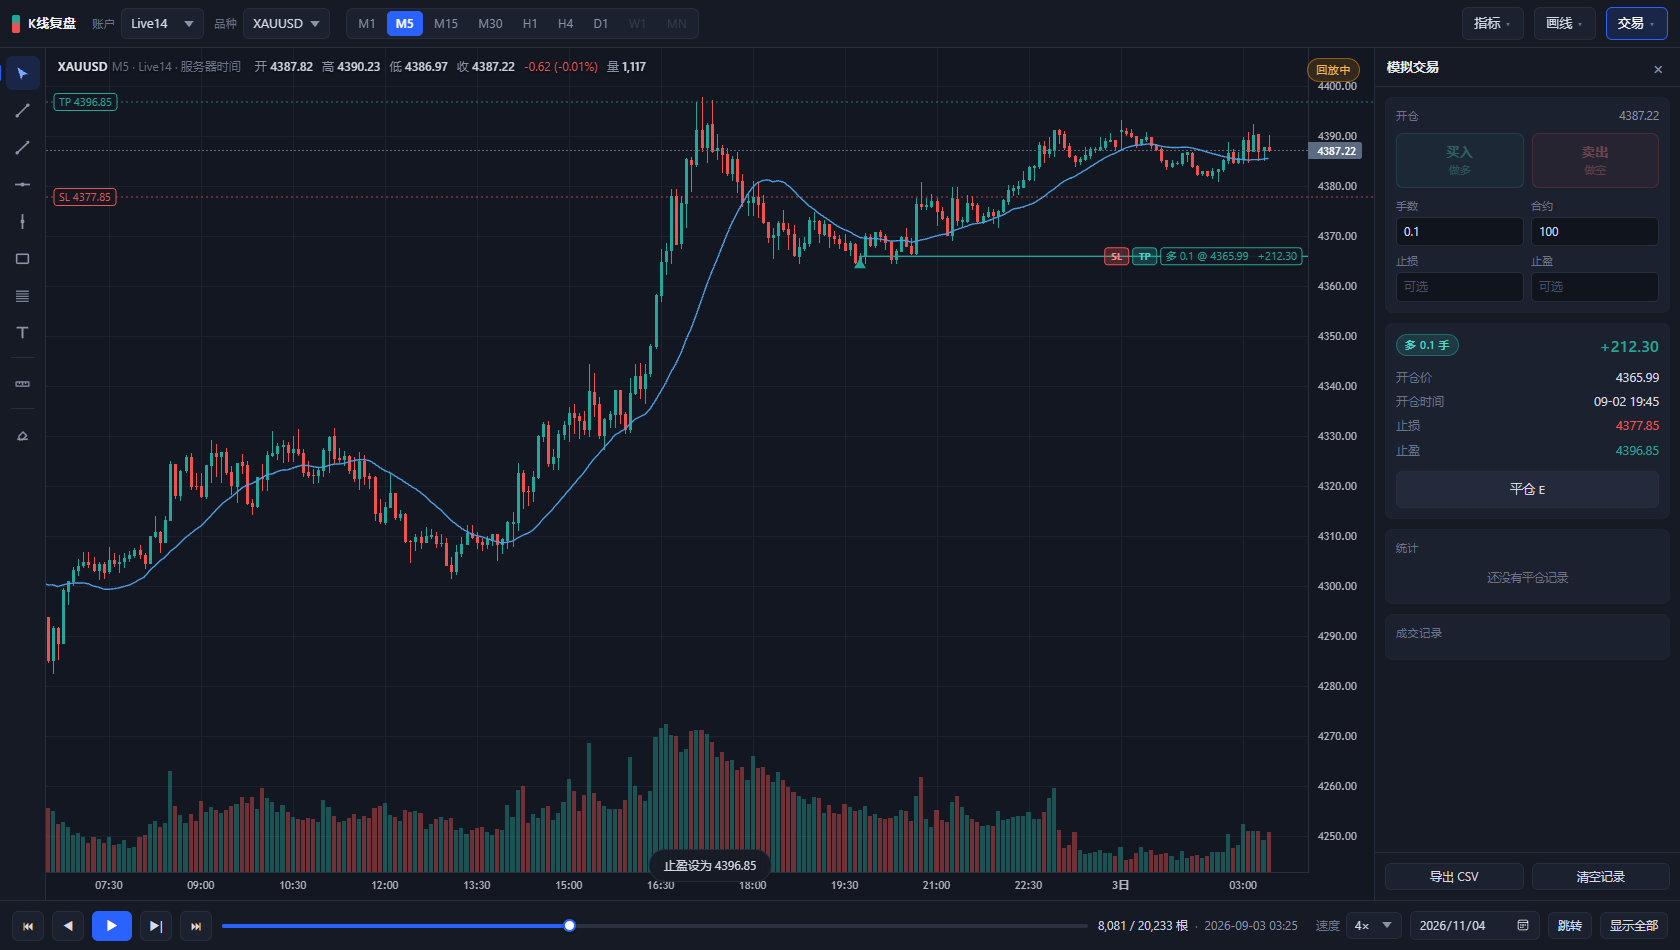
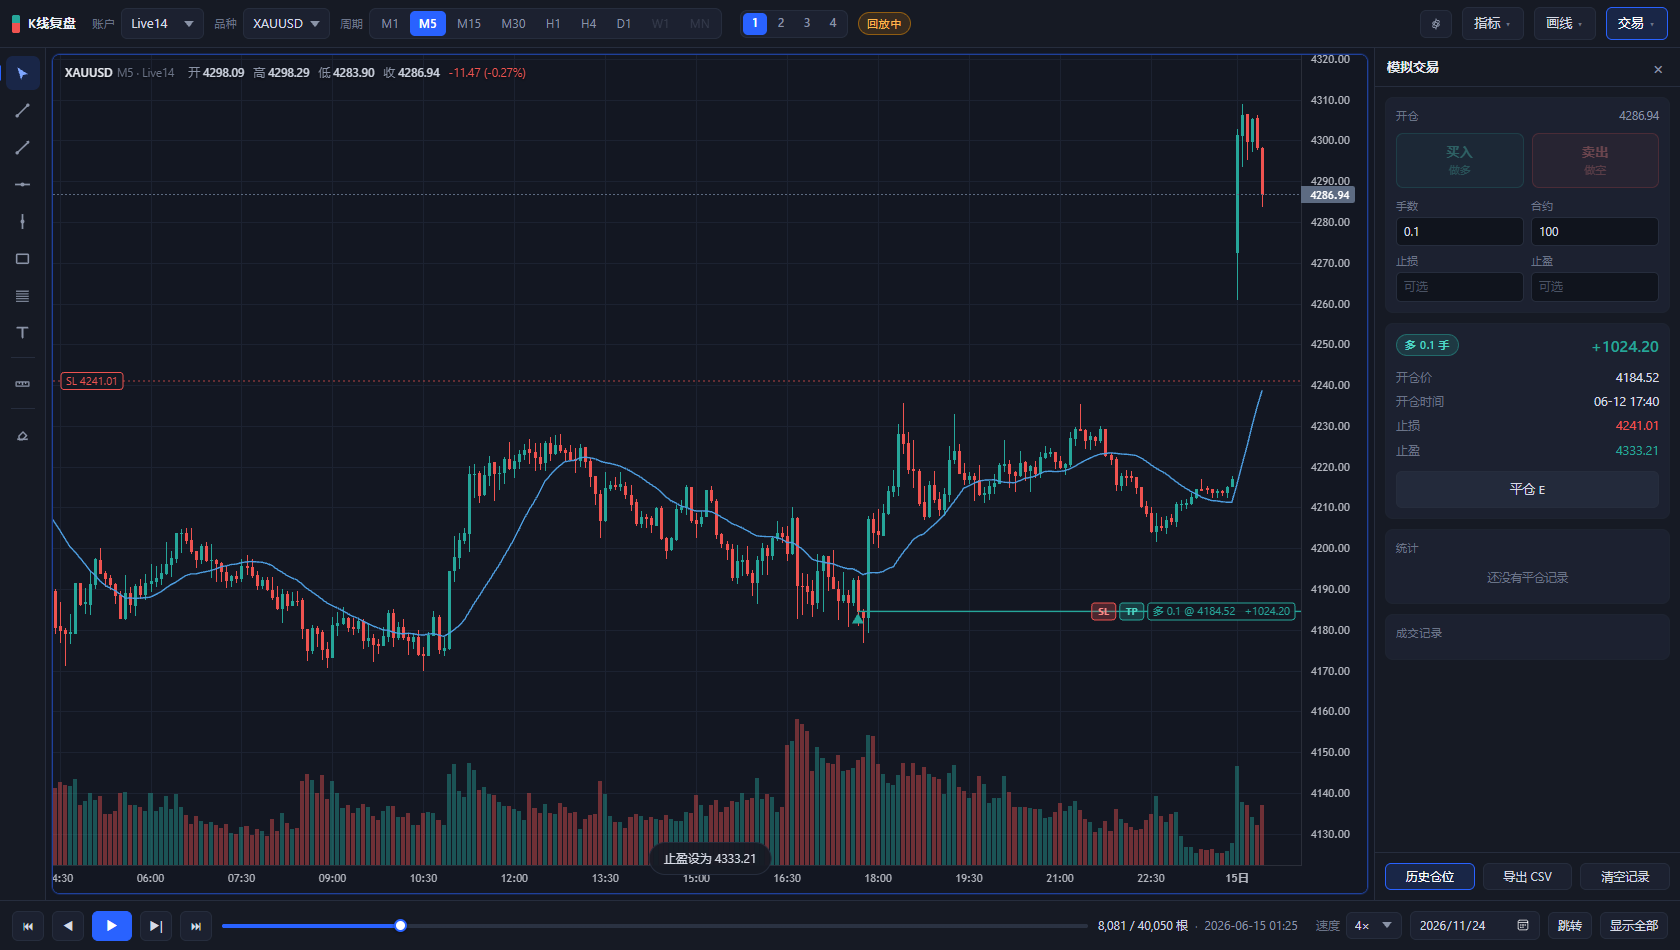
feat: 周期按钮上移顶栏并与账户/品种同排
- 周期条统一放到顶栏, 作用于当前活动窗格, 多窗格显示窗格编号
- 去掉每个窗格内 30px 的周期 header, 图例继续显示品种/周期/账户
- 回放角标改为顶栏全局显示
- 更新 README 与相关截图

diff --git a/web/js/app.js b/web/js/app.js
@@ -156,11 +156,6 @@
     section.className = 'pane';
     section.dataset.index = String(index);
     section.innerHTML =
-      '<div class="pane-head">' +
-        '<div class="periods"' + idAttr('periodBar') + '></div>' +
-        '<span class="pane-tag"></span>' +
-        '<div class="replay-badge"' + idAttr('replayBadge') + ' hidden>回放中</div>' +
-      '</div>' +
       '<div class="chart-wrap"' + idAttr('chartWrap') + '>' +
         '<div class="chart-host"' + idAttr('chartHost') + '></div>' +
         '<canvas class="draw-layer"' + idAttr('drawLayer') + '></canvas>' +
@@ -173,9 +168,6 @@
       ind: {}, overlays: {}, subSeries: {},
       els: {
         section: section,
-        periods: section.querySelector('.periods'),
-        tag: section.querySelector('.pane-tag'),
-        badge: section.querySelector('.replay-badge'),
         wrap: section.querySelector('.chart-wrap'),
         host: section.querySelector('.chart-host'),
         canvas: section.querySelector('.draw-layer'),
@@ -301,6 +293,7 @@
       p.els.section.classList.toggle('active', p.index === index);
       if (p.index !== index && p.drawLayer) p.drawLayer.setTool('cursor');
     });
+    syncPeriodBar(state.panes[index]);
     renderTradePanel();
     currentTool = 'cursor';
     syncToolButtons();
@@ -334,8 +327,6 @@
       paneApplyAll(pane, true);
       paneFocus(pane);
 
-      pane.els.tag.textContent = state.symbol + ' · ' + srvLabel(state.serverId);
-      buildPeriodBar(pane, res.period);
       loadDrawings(pane);
 
       if (pane.index === 0 && bars.length) {
@@ -347,45 +338,71 @@
       pane.book.setContext({ symbol: state.symbol, digits: res.digits, bars: bars });
       loadTrades(pane);
 
-      paneUpdateBadge(pane);
+      if (activePane() === pane) syncPeriodBar(pane);
+      updateReplayBadge();
       paneUpdateLegendLast(pane);
       return pane;
     });
   }
 
-  function buildPeriodBar(pane, activePeriod) {
-    var host = pane.els.periods;
+  /** 顶栏周期条: 全局只有一个, 作用于当前活动窗格 */
+  function buildPeriodBar() {
+    var host = $('periodBar');
+    if (!host) return;
     var avail = availablePeriods();
     host.innerHTML = '';
     PERIOD_ORDER.forEach(function (period) {
       var b = document.createElement('button');
+      b.type = 'button';
       b.textContent = perLabel(period);
       b.dataset.period = String(period);
-      if (period === activePeriod) b.classList.add('active');
-      if (avail.indexOf(period) < 0) {
-        b.disabled = true;
-        b.title = '该周期没有本地数据';
-      }
-      b.addEventListener('click', function () {
-        if (period === pane.period) { setActive(pane.index); return; }
-        setActive(pane.index);
-        var keepT = cutoffTime();
-        var multi = state.panes.length > 1;
-        var arr = host.querySelectorAll('button');
-        for (var i = 0; i < arr.length; i++) arr[i].classList.toggle('active', arr[i].dataset.period === String(period));
-        paneLoad(pane, period).then(function () {
-          if (!multi && pane === p0()) {
-            // 单窗格: 回到该周期自己的记忆点 (没有就停在最新)
-            if (!restorePosition()) setCutoff(cutoffTime());
-          } else if (keepT) {
-            // 多窗格: 时间轴共享, 换周期只改变显示粒度, 时刻不动
-            setCutoff(keepT);
-          }
-          updateStatus();
-        }).catch(function (e) { hint('载入失败: ' + e.message); });
-      });
+      b.title = avail.indexOf(period) >= 0 ? '切换到 ' + perLabel(period) : '该周期没有本地数据';
+      if (avail.indexOf(period) < 0) b.disabled = true;
+      b.addEventListener('click', function () { selectPeriod(period); });
       host.appendChild(b);
     });
+    syncPeriodBar(activePane());
+  }
+
+  function selectPeriod(period) {
+    var pane = activePane();
+    if (!pane || period === pane.period) { syncPeriodBar(pane); return; }
+    var keepT = cutoffTime();
+    var multi = state.panes.length > 1;
+    paneLoad(pane, period).then(function () {
+      if (!multi && pane === p0()) {
+        // 单窗格: 回到该周期自己的记忆点 (没有就停在最新)
+        if (!restorePosition()) setCutoff(cutoffTime());
+      } else if (keepT) {
+        // 多窗格: 时间轴共享, 换周期只改变显示粒度, 时刻不动
+        setCutoff(keepT);
+      }
+      updateStatus();
+    }).catch(function (e) { hint('载入失败: ' + e.message); });
+    // paneLoad 会同步写入 pane.period, 不必等数据回来才切高亮
+    syncPeriodBar(pane);
+  }
+
+  function syncPeriodBar(pane) {
+    pane = pane || activePane();
+    var host = $('periodBar');
+    if (!host) return;
+    var period = pane ? pane.period : null;
+    var arr = host.querySelectorAll('button');
+    for (var i = 0; i < arr.length; i++) {
+      var on = parseInt(arr[i].dataset.period, 10) === period;
+      arr[i].classList.toggle('active', on);
+      arr[i].setAttribute('aria-pressed', on ? 'true' : 'false');
+    }
+    var multi = state.panes.length > 1 && !!pane;
+    host.title = multi
+      ? '周期：作用于窗格 ' + (pane.index + 1) + '（点图表切换窗格）'
+      : 'K 线周期';
+    var scope = $('periodScope');
+    if (scope) {
+      scope.hidden = !multi;
+      if (multi) scope.textContent = '窗格 ' + (pane.index + 1);
+    }
   }
 
   function computeIndicators(pane) {
@@ -553,7 +570,6 @@
     }
     pane.cursor = idx;
     if (pane.book) pane.book.onCursorMove(prev, idx);   // 每个窗格自己的持仓/挂单都要结算
-    paneUpdateBadge(pane);
     paneUpdateLegendLast(pane);
   }
 
@@ -573,7 +589,6 @@
         paneApplyAll(pane, true);
         paneFocus(pane);
         if (pane.book) pane.book.onCursorMove(prev, -1);
-        paneUpdateBadge(pane);
         paneUpdateLegendLast(pane);
       }
       return;
@@ -623,6 +638,7 @@
     renderTradePanel();
     updateStatus();
     savePosition();
+    updateReplayBadge();
     if (atCutoffEnd()) stopPlay();
   }
 
@@ -662,10 +678,11 @@
     renderLegend(pane, b, prev);
   }
 
-  function paneUpdateBadge(pane) {
-    if (!pane.els.badge) return;
-    pane.els.badge.hidden = atCutoffEnd() ||
-      !(pane.bars.length && pane.cursor >= 0 && pane.cursor < pane.bars.length - 1);
+  /** 时间轴共享, 所以「回放中」是全局状态, 只挂在顶栏一个角标上 */
+  function updateReplayBadge() {
+    var badge = $('replayBadge');
+    if (!badge) return;
+    badge.hidden = atCutoffEnd();
   }
 
   /* ============================================================ 回放 */
@@ -906,6 +923,7 @@
     state.panes.forEach(function (p) {
       p.els.section.classList.toggle('active', p.index === state.activeIndex);
     });
+    syncPeriodBar(activePane());
   }
 
   function pickNewPeriod() {
@@ -995,12 +1013,14 @@
       var period = sym.periods.some(function (p) { return p.period === saved.period; })
         ? saved.period : pickDefaultPeriod(sym);
 
+      buildPeriodBar();
       var pane = createPane(0);
       state.panes.push(pane);
       paneLoad(pane, period).then(function () {
         restorePosition();
         updateStatus();
         setActivePanels();
+        syncPeriodBar(pane);
         saveSession();
       }).catch(function (e) { hint('载入失败: ' + e.message); });
     }).catch(function (e) { hint('载入目录失败: ' + e.message); });
@@ -1008,6 +1028,7 @@
 
   function reloadAll() {
     if (!state.panes.length) return;
+    buildPeriodBar();
     var chain = Promise.resolve();
     state.panes.forEach(function (p) {
       chain = chain.then(function () { return paneLoad(p, p.period); });
@@ -1017,6 +1038,7 @@
       syncPanes();
       updateStatus();
       renderTradePanel();
+      syncPeriodBar(activePane());
       saveSession();
     }).catch(function (e) { hint('重载失败: ' + e.message); });
   }

diff --git a/web/css/app.css b/web/css/app.css
@@ -49,8 +49,13 @@ button, select, input {
   background: var(--panel);
   border-bottom: 1px solid var(--border);
   flex: 0 0 auto;
+  overflow-x: auto;
+  overflow-y: hidden;
+  scrollbar-width: none;
   z-index: 20;
 }
+
+.topbar::-webkit-scrollbar { display: none; }
 
 .brand {
   display: flex;
@@ -103,7 +108,7 @@ select:focus { border-color: var(--accent); }
 .periods {
   display: flex;
   gap: 2px;
-  margin-left: 6px;
+  margin-left: 0;
   background: var(--panel-2);
   border: 1px solid var(--border);
   border-radius: 7px;
@@ -125,6 +130,21 @@ select:focus { border-color: var(--accent); }
 .periods button:hover { color: var(--text); background: var(--panel-3); }
 .periods button.active { background: var(--accent); color: #fff; font-weight: 600; }
 .periods button[disabled] { opacity: .32; cursor: default; background: transparent; color: var(--muted-2); }
+
+/* 多窗格时标出「周期」作用于哪个窗格 */
+.pane-scope {
+  flex: 0 0 auto;
+  font-size: 10.5px;
+  letter-spacing: .3px;
+  color: var(--muted);
+  background: var(--panel-2);
+  border: 1px solid var(--border);
+  border-radius: 20px;
+  padding: 2px 7px;
+  white-space: nowrap;
+}
+
+.pane-scope[hidden] { display: none; }
 
 .grow { flex: 1 1 auto; }
 
@@ -581,6 +601,12 @@ button.ghost.icon svg { display: block; }
 }
 
 .replay-badge[hidden] { display: none; }
+
+/* 回放状态挂在顶栏, 与图表内的时间轴共享状态保持一致 */
+.topbar .replay-badge {
+  position: static;
+  flex: 0 0 auto;
+}
 
 .hint {
   position: absolute;
@@ -1270,43 +1296,6 @@ body.resizing-col * { cursor: row-resize !important; }
   box-shadow: 0 0 0 1px rgba(41, 98, 255, .18);
 }
 
-.pane-head {
-  flex: 0 0 auto;
-  display: flex;
-  align-items: center;
-  gap: 8px;
-  height: 30px;
-  padding: 0 8px;
-  background: var(--panel);
-  border-bottom: 1px solid var(--border-soft);
-}
-
-.pane-head .periods {
-  margin-left: 0;
-  border: 0;
-  background: transparent;
-  padding: 0;
-  gap: 1px;
-}
-
-.pane-head .periods button {
-  padding: 3px 7px;
-  font-size: 11px;
-}
-
-.pane-tag {
-  margin-left: auto;
-  font-size: 11px;
-  color: var(--muted-2);
-  white-space: nowrap;
-  font-variant-numeric: tabular-nums;
-}
-
-.pane-head .replay-badge {
-  position: static;
-  flex: 0 0 auto;
-}
-
 .draw-layer {
   position: absolute;
   inset: 0;
@@ -1635,4 +1624,13 @@ body.resizing-col * { cursor: row-resize !important; }
   #csPreview { height: 84px; }
   .cs-body { padding: 2px 12px 12px; }
   .cs-foot { padding: 10px 12px; }
+}
+
+/* Narrow screens: keep the period strip from pushing actions off the topbar */
+@media (max-width: 1320px) {
+  .topbar { gap: 5px; padding: 0 8px; }
+  .brand { padding-right: 2px; }
+  .periods button { padding: 4px 6px; font-size: 11.5px; }
+  .layout-switch { margin-left: 4px; }
+  .split-switch { margin-left: 4px; }
 }

diff --git a/web/index.html b/web/index.html
@@ -22,6 +22,12 @@
     <select id="symbolSelect" title="品种"></select>
   </div>
 
+  <div class="field">
+    <span class="cap">周期</span>
+    <div class="periods" id="periodBar" role="group" aria-label="K线周期"></div>
+    <span class="pane-scope" id="periodScope" hidden></span>
+  </div>
+
   <div class="layout-switch" id="layoutSwitch" title="窗格数量">
     <button data-layout="1" class="active">1</button>
     <button data-layout="2">2</button>
@@ -33,6 +39,9 @@
     <button data-split="col" class="active" title="上下分屏">上下</button>
     <button data-split="row" title="左右分屏">左右</button>
   </div>
+
+  <div class="replay-badge" id="replayBadge"
+       title="正在回放：当前之后的 K 线已隐藏" hidden>回放中</div>
 
   <div class="grow"></div>
 

diff --git a/README.md b/README.md
@@ -60,7 +60,7 @@ powershell -ExecutionPolicy Bypass -File scripts\start.ps1 -Port 9000
 
 ![多窗格](shots/15-multi-pane.png)
 
-顶栏 **1 2 3 4** 切换窗格数量（3 是上下叠放，4 是 2×2）。每个窗格有自己的周期按钮行，点 `M1` / `M5` 就换那个窗格的周期。
+顶栏 **1 2 3 4** 切换窗格数量（3 是上下叠放，4 是 2×2）。周期按钮 `M1 / M5 / M15…` 统一放在顶栏、和账户/品种同一行，作用于**当前活动窗格**（边框高亮）；多窗格时旁边会显示「窗格 N」，点一下目标图表再点周期即可单独切换该窗格。
 
 双窗格可在顶栏 **上下 / 左右** 之间切换分屏方向；拖动两个窗格中间的分隔线即可自由调整大小（往左拖压缩左图、放大右图），双击分隔线恢复 50/50，分隔线聚焦后也可用方向键微调。
 
@@ -76,7 +76,7 @@ powershell -ExecutionPolicy Bypass -File scripts\start.ps1 -Port 9000
 
 ![左右分屏](shots/18-split-row.png)
 
-每个窗格各自独立维护：画线、模拟交易、指标副图、图例、回放角标。鼠标点哪个窗格，哪个就成为**活动窗格**（边框高亮）——工具栏画笔、右键下单、交易面板都作用于活动窗格。
+每个窗格各自独立维护：画线、模拟交易、指标副图、图例。鼠标点哪个窗格，哪个就成为**活动窗格**（边框高亮）——工具栏画笔、右键下单、顶栏周期按钮、交易面板都作用于活动窗格。「回放中」角标统一显示在顶栏（各窗格共享同一条时间轴）。
 
 ## 图表外观怎么调
 
@@ -205,7 +205,7 @@ powershell -ExecutionPolicy Bypass -File scripts\start.ps1 -Port 9000
   - 多头：止损 < 现价 < 止盈
   - 空头：止盈 < 现价 < 止损
   - 拖过头会自动夹在现价外侧一个最小变动价位
-- 妙处在于**浮盈后可以把止损拖到开仓价之上做跟踪止损**（上图：开仓 4365.99，现价 4387.22，止损已上移到 4377.85）
+- 妙处在于**浮盈后可以把止损拖到开仓价之上做跟踪止损**（上图：开仓 4184.52，现价 4286.94，止损已上移到 4241.01）
 - 设好后两个价格显示在面板「持仓」区，随持仓一起持久化，刷新还在
 - 价格碰到止损/止盈自动平仓，原因记为「止损 / 止盈」
 
